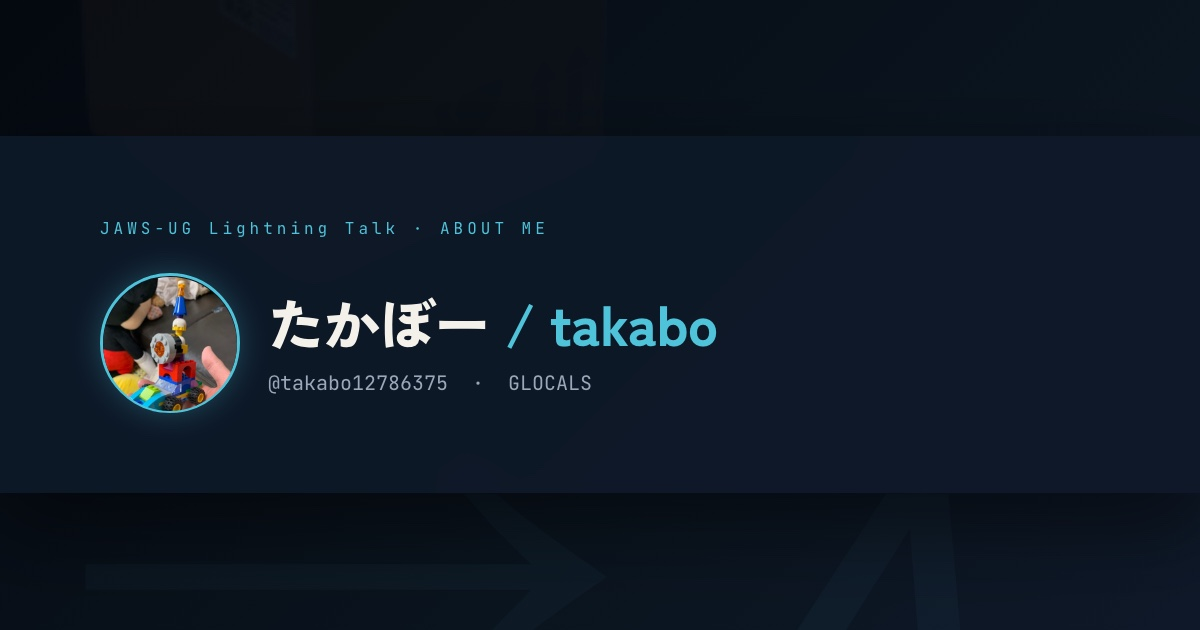
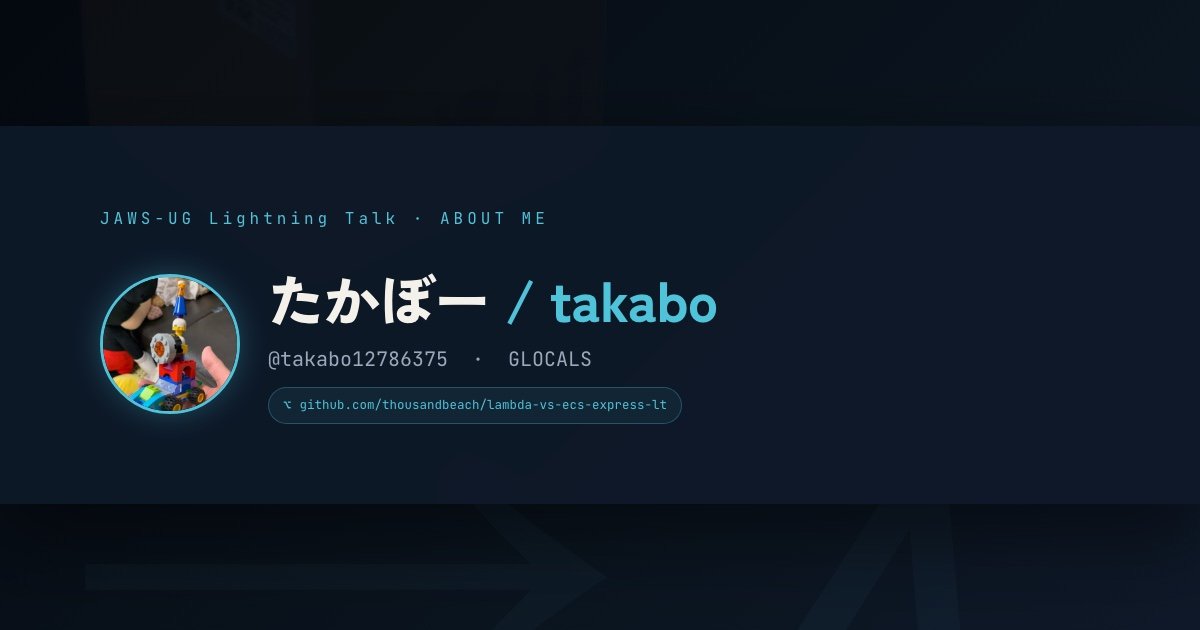
self-intro: GitHub repo URL を目立つ位置に追加 + OGP 画像更新
- header (avatar + 名前 + handle) の直下に GitHub repo バッジを表示
- Find me セクションにも "⌥ GitHub repo" ボタンを追加
- ogp-intro.jpg を再生成 (新バッジ含むヘッダーを 1200×630 で再撮影)

SNS シェア時のサムネに repo URL が含まれるようになり、 「LT 資料」→「source」 への動線が明確化。

diff --git a/self-intro.html b/self-intro.html
@@ -117,6 +117,25 @@ body {
 }
 .name-block .handle a:hover { color: var(--cyan); }
 
+.repo-badge {
+  display: inline-flex;
+  align-items: center;
+  gap: 8px;
+  margin-top: 12px;
+  padding: 6px 14px;
+  background: rgba(79,195,217,0.08);
+  border: 1px solid rgba(79,195,217,0.3);
+  border-radius: 999px;
+  font-family: 'JetBrains Mono', monospace;
+  font-size: 12.5px;
+  color: var(--cyan);
+  text-decoration: none;
+  transition: all 0.15s;
+  word-break: break-all;
+}
+.repo-badge:hover { background: rgba(79,195,217,0.15); border-color: var(--cyan); }
+.repo-badge .gh-icon { font-size: 14px; }
+
 .section {
   margin-bottom: 30px;
 }
@@ -298,6 +317,10 @@ body.ogp-mode .tag { font-size: 16px !important; margin-bottom: 32px !important;
         &nbsp;·&nbsp;
         <span>GLOCALS</span>
       </div>
+      <a class="repo-badge" href="https://github.com/thousandbeach/lambda-vs-ecs-express-lt" target="_blank" rel="noopener">
+        <span class="gh-icon">⌥</span>
+        <span>github.com/thousandbeach/lambda-vs-ecs-express-lt</span>
+      </a>
     </div>
   </div>
 
@@ -400,6 +423,7 @@ body.ogp-mode .tag { font-size: 16px !important; margin-bottom: 32px !important;
     <div class="section-title">// Find me</div>
     <div class="links">
       <a class="link-btn" href="https://x.com/takabo12786375" target="_blank" rel="noopener">𝕏 @takabo12786375</a>
+      <a class="link-btn" href="https://github.com/thousandbeach/lambda-vs-ecs-express-lt" target="_blank" rel="noopener">⌥ GitHub repo</a>
       <a class="link-btn" href="https://d1dhu2qos3a4zj.cloudfront.net/lambda.html" target="_blank" rel="noopener">Part I スライド</a>
       <a class="link-btn" href="https://d1dhu2qos3a4zj.cloudfront.net/" target="_blank" rel="noopener">Part II スライド</a>
     </div>
